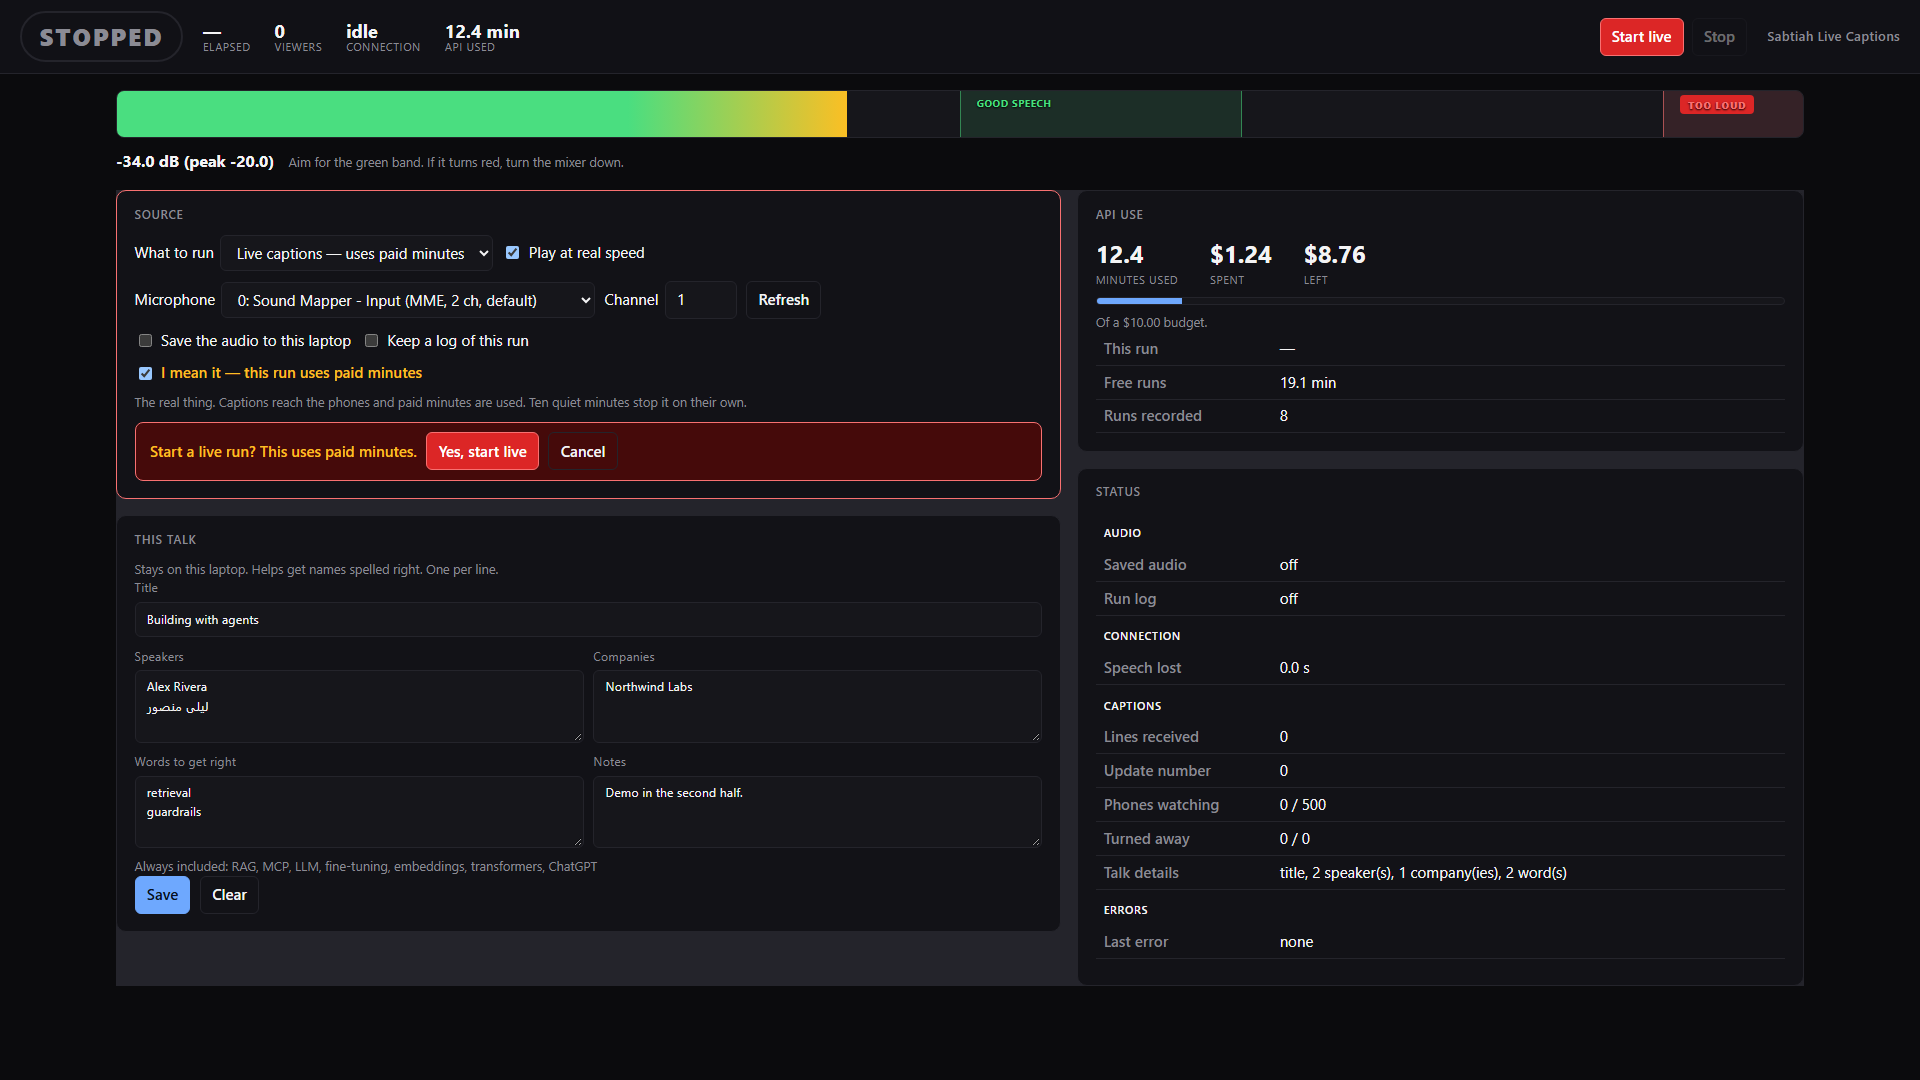
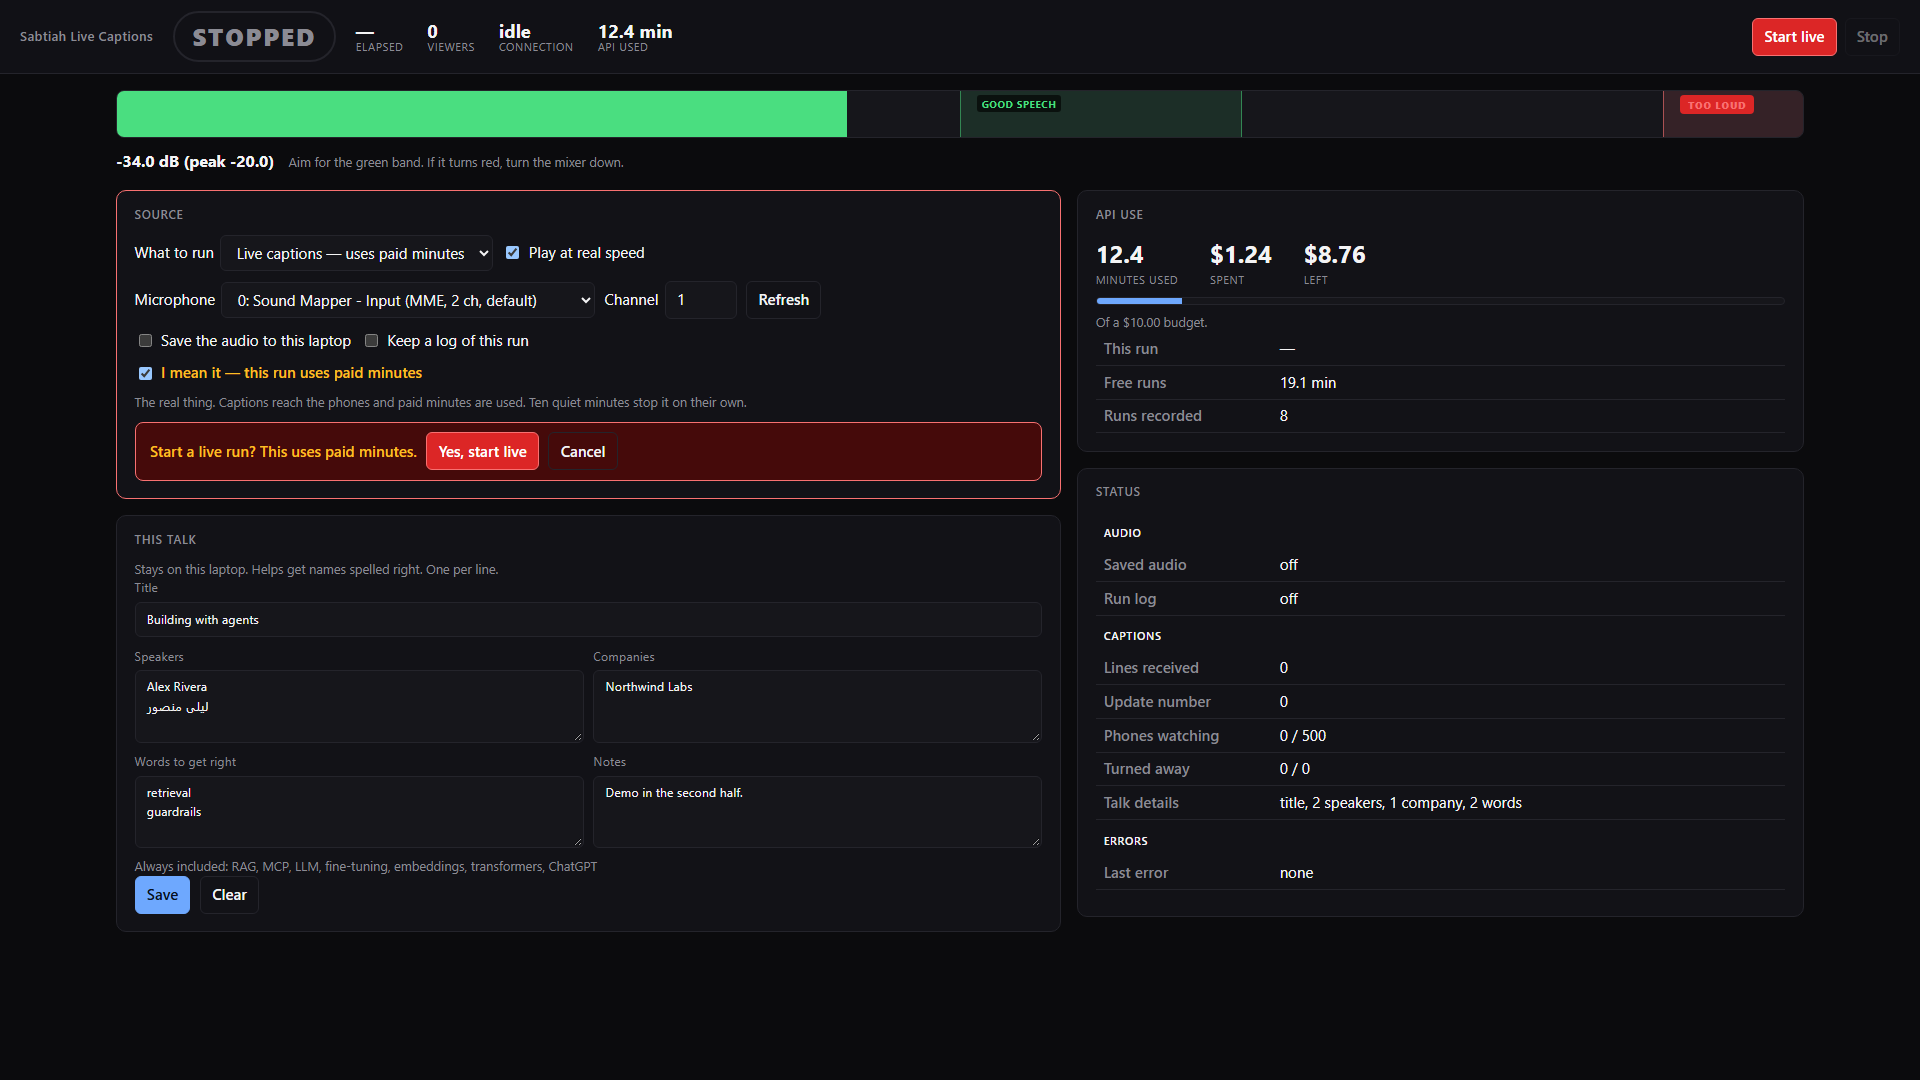
Operator page polish, from reviewing the screenshots
Layout and wording only. Every behaviour and every test is unchanged;
426 still pass.

Phone, at 390px:

- Selects and inputs are capped at the width of what contains them. A
  long device name used to push the microphone select past the edge of
  its card.
- Under 34rem every label moves above its field instead of beside it.
  Side by side, "What to run" wrapped onto three lines and left the
  select a sliver. Checkbox labels stay beside their box, because there
  the label is the sentence.

Desktop:

- The page title moved to the far left of the top bar, before the
  state pill, instead of trailing after the Stop button.
- The background is uniform again. `main { background: var(--line) }`
  is the audience page's hairline between its two stream columns, and
  it was unscoped, so it also painted the operator page's grid a shade
  lighter than the page around it. Scoped to `body:not(.admin)`, which
  covers the audience page and the big screen and leaves this one alone.
- The meter fill is green up to and through the good band, amber
  between the band and the clip zone, and red inside it, with hard
  stops aligned to the marks drawn on the bar. The gradient is stretched
  back out to the width of the whole track from JavaScript, or its
  colours would depend on the level twice over.
- The band labels sit on a dark chip. A text shadow was not enough:
  green on green was unreadable exactly when the level was in the band
  the label points at.

Content:
[…]

diff --git a/web/admin.js b/web/admin.js
@@ -62,12 +62,15 @@
     responseLog: document.getElementById('s-capture'),
     engine: document.getElementById('s-engine'),
     lag: document.getElementById('s-lag'),
-    retries: document.getElementById('s-retries'),
+    reconnects: document.getElementById('s-reconnects'),
+    rollovers: document.getElementById('s-rollovers'),
     lost: document.getElementById('s-lost'),
     silence: document.getElementById('s-silence'),
     thisRun: document.getElementById('s-this-run'),
     error: document.getElementById('s-error'),
     errorBanner: document.getElementById('error-banner'),
+    errorText: document.getElementById('error-text'),
+    errorAdvice: document.getElementById('error-advice'),
     statusHeading: document.getElementById('status-heading'),
     statusNote: document.getElementById('status-note'),
     statusCard: document.getElementById('status-card'),
@@ -75,6 +78,7 @@
     cost: document.getElementById('s-cost'),
     left: document.getElementById('s-left'),
     spendFill: document.getElementById('spend-fill'),
+    spendBar: document.getElementById('spend-bar'),
     spendNote: document.getElementById('spend-note'),
     spendCard: document.getElementById('spend-card'),
     free: document.getElementById('s-free'),
@@ -173,6 +177,12 @@
     return ok(a) && ok(b) ? a + ' / ' + b : '—';
   }
 
+  /* "1 speaker", "2 speakers". Worth the four lines: a status line that says
+   * "1 speakers" reads as a page nobody checked. */
+  function plural(count, one, many) {
+    return count + ' ' + (count === 1 ? one : (many || one + 's'));
+  }
+
   function num(value, digits, suffix) {
     if (typeof value !== 'number' || !isFinite(value)) { return '—'; }
     return value.toFixed(digits) + (suffix || '');
@@ -200,7 +210,6 @@
   function renderMeter(level) {
     if (!level) {
       els.meterFill.style.width = '0%';
-      els.meterFill.className = 'meter-fill';
       els.level.textContent = '—';
       els.clip.hidden = true;
       return;
@@ -208,7 +217,11 @@
     var db = level.db;
     var fraction = Math.max(0, Math.min(1, (db - FLOOR_DB) / -FLOOR_DB));
     els.meterFill.style.width = (fraction * 100).toFixed(1) + '%';
-    els.meterFill.className = 'meter-fill' + (level.peak >= 0.9 ? ' hot' : '');
+    /* Stretch the gradient back out to the width of the whole track, so its
+     * colour stops stay lined up with the marks painted on the bar. Green
+     * through the good band, amber past it, red inside the clip zone. */
+    els.meterFill.style.backgroundSize =
+      (100 / Math.max(fraction, 0.001)).toFixed(2) + '% 100%';
     els.level.textContent = db.toFixed(1) + ' dB  (peak ' +
       level.peak_db.toFixed(1) + ')';
     els.clip.hidden = !level.clipping;
@@ -239,10 +252,12 @@
       text(els.cost, null);
       text(els.left, null);
       els.spendFill.style.width = '0%';
+      els.spendBar.hidden = true;
       text(els.spendNote,
         'Set the per-minute rate in .env to see dollars.');
     } else {
       text(els.cost, '$' + used.toFixed(2));
+      els.spendBar.hidden = false;
       if (budget) {
         var left = budget - used;
         text(els.left, '$' + left.toFixed(2));
@@ -264,10 +279,19 @@
   }
 
   /* Rows whose value is only an em dash are noise while nothing is running.
-   * Hidden rather than removed so they come straight back when a run starts. */
-  function tidyRows(running) {
-    var rows = els.statusCard.querySelectorAll('tr[data-row]');
+   * Hidden rather than removed so they come straight back when a run starts.
+   *
+   * The Connection group goes as a block when there is no engine at all: a
+   * replay transcribes nothing, so "caption delay" and "reconnects" are not
+   * blank, they are meaningless. */
+  function tidyRows(running, hasEngine) {
+    var rows = els.statusCard.querySelectorAll('tr[data-row], tr.group');
     Array.prototype.forEach.call(rows, function (row) {
+      if (row.getAttribute('data-group') === 'connection' && !hasEngine) {
+        row.hidden = true;
+        return;
+      }
+      if (!row.hasAttribute('data-row')) { row.hidden = false; return; }
       var cell = row.cells[1];
       var empty = !cell || cell.textContent === '—';
       row.hidden = empty && !running;
@@ -325,16 +349,19 @@
 
       /* Counts only. The values are never in this payload. */
       var d = status.details;
-      text(els.details, d ? (
-        (d.title ? 'title, ' : 'no title, ') + d.speakers + ' speaker(s), '
-        + d.companies + ' company(ies), ' + d.terms + ' word(s)'
-      ) : null);
+      text(els.details, d ? [
+        d.title ? 'title' : 'no title',
+        plural(d.speakers, 'speaker'),
+        plural(d.companies, 'company', 'companies'),
+        plural(d.terms, 'word')
+      ].join(', ') : null);
 
       text(els.engine, status.engine_state);
       els.engine.className = status.engine_state === 'reconnecting'
         ? 'error' : '';
       text(els.lag, num(status.lag_seconds, 2, ' s'));
-      text(els.retries, pair(status.reconnects, status.rollovers));
+      text(els.reconnects, status.reconnects);
+      text(els.rollovers, status.rollovers);
       text(els.lost, num(status.dropped_seconds, 1, ' s'));
       els.lost.className = status.dropped_seconds ? 'error' : '';
       text(els.silence, num(status.silent_seconds, 0, ' s'));
@@ -342,7 +369,10 @@
         typeof status.streamed_seconds === 'number'
           ? status.streamed_seconds / 60 : undefined, 2, ' min'));
 
-      tidyRows(running);
+      /* An engine is involved when one is connected now, or when the run
+       * that just finished had one. A replay never has one. */
+      tidyRows(running, !!(status.engine_state
+        || status.reconnects !== undefined || status.dropped_seconds));
     });
 
     section('error', function () {
@@ -351,8 +381,14 @@
        * was "this page has a bug". Page problems go to their own banner. */
       text(els.error, status.error, 'none');
       els.error.className = status.error ? 'error' : '';
-      els.errorBanner.textContent = status.error || '';
+      text(els.errorText, status.error, '');
       els.errorBanner.hidden = !status.error;
+      /* One plain line for the error an operator can actually act on. The
+       * key is the only thing on this list they can fix from their seat. */
+      var auth = /unauthenticated|permission_denied|invalid api key/i
+        .test(status.error || '');
+      text(els.errorAdvice, auth ? 'The API key in .env was rejected.' : '', '');
+      els.errorAdvice.hidden = !auth;
       els.statusCard.className = status.error ? 'card danger' : 'card';
     });
 
@@ -472,7 +508,10 @@
     if (!els.applyBar) { return; }
     els.applyBar.hidden = !pending;
     els.detailsCard.className = pending ? 'card attention' : 'card';
-    if (pending) { detailsState('Saved — not in use yet.', 'pending'); }
+    /* The amber bar says "saved, not in use yet" in full. Saying it again
+     * beside the Save button only made the page look like it was repeating
+     * itself, so the small line is cleared instead. */
+    if (pending) { detailsState('', null); }
   }
 
   function sendDetails(details, note) {

diff --git a/web/style.css b/web/style.css
@@ -124,7 +124,13 @@ h1 {
 
 /* -- streams ------------------------------------------------------------ */
 
-main {
+/* Everything except the operator page - so the audience page and the big
+   screen, both of which use `main` for their stream columns. The background
+   here is the hairline between the two columns in "Both": a 1px grid gap
+   with the line colour showing through. Unscoped, it also painted the
+   operator page's grid, which is why the area around those cards looked a
+   shade lighter than the page itself. */
+body:not(.admin) main {
   flex: 1;
   min-height: 0;
   display: grid;
@@ -402,6 +408,9 @@ body.admin textarea {
   border-radius: 6px;
   padding: 0.4rem 0.7rem;
   min-height: 2.2rem;
+  /* A long device name used to push the select past the edge of its card on
+     a phone. Nothing here may be wider than what contains it. */
+  max-width: 100%;
 }
 
 body.admin input[type="number"] { width: 4.5rem; }
@@ -470,6 +479,16 @@ body.admin .banner {
 body.admin .banner.page { color: #f87171; border: 1px solid #f87171; }
 body.admin .banner.engine { background: #7f1d1d; color: #fff; }
 
+/* The advice sits on its own line under the error, not trailing off the end
+   of it: it is a separate thought, and the one an operator can act on. */
+body.admin #error-advice {
+  display: block;
+  font-weight: 400;
+  margin-top: 0.15rem;
+}
+
+body.admin #error-advice[hidden] { display: none !important; }
+
 /* The "saved but not applied" state during a live run. It has to be
    impossible to walk past. */
 body.admin .applybar {
@@ -514,7 +533,19 @@ body.admin .meter {
 body.admin .meter-fill {
   height: 100%;
   width: 0;
-  background: linear-gradient(90deg, #4ade80 0%, #4ade80 70%, #fbbf24 100%);
+  /* Hard stops aligned to the marks drawn on the bar: green all the way
+     through the good band (which ends at 66.7%), amber in the gap between
+     the band and the clip zone, red once inside it (91.7%). The colour of
+     the bar's end is then the answer on its own, without reading a number. */
+  background: linear-gradient(90deg,
+    #4ade80 0%, #4ade80 66.7%,
+    #fbbf24 66.7%, #fbbf24 91.7%,
+    #f87171 91.7%, #f87171 100%);
+  /* `background-size` is set from JavaScript to the inverse of the fill
+     fraction, so the gradient always spans the whole track rather than being
+     squeezed into whatever width the fill currently has. Without that, the
+     colour at the end of the bar would depend on the level twice over. */
+  background-repeat: no-repeat;
   transition: width 120ms linear;
 }
 
@@ -551,7 +582,12 @@ body.admin .meter-label {
   position: absolute;
   z-index: 3;
   font-weight: 700;
-  text-shadow: 0 1px 2px #000;
+  /* A dark chip, not just a text shadow: these labels sit wherever the fill
+     happens to reach, and green-on-green was unreadable exactly when the
+     level was in the band the label is pointing at. */
+  background: rgba(0, 0, 0, 0.62);
+  padding: 0.05rem 0.3rem;
+  border-radius: 3px;
   top: 0.25rem;
   font-size: 0.62rem;
   letter-spacing: 0.06em;
@@ -563,11 +599,43 @@ body.admin .meter-label {
 body.admin .meter-label.good { left: 51%; color: #4ade80; }
 body.admin .meter-label.clip { left: 92.7%; color: #f87171; }
 
-/* The words do not fit beside each other on a phone; the coloured bands
-   still say where to aim. */
+/* Phone width. Two things change: the meter labels drop out (the coloured
+   bands still say where to aim), and every label moves above its field
+   instead of beside it - side by side, "What to run" wrapped onto three
+   lines and left the select a sliver. */
 @media (max-width: 34rem) {
   body.admin .meter-label { display: none; }
   body.admin .meter { height: 2.2rem; }
+
+  body.admin .row { gap: 0.8rem; }
+
+  body.admin .row > label {
+    display: flex;
+    flex-direction: column;
+    align-items: stretch;
+    gap: 0.25rem;
+    flex: 1 1 100%;
+    color: var(--dim);
+    font-size: 0.78rem;
+  }
+
+  /* ...except a checkbox, where the label *is* the sentence and belongs
+     beside the box. */
+  body.admin .row > label:has(input[type="checkbox"]) {
+    flex-direction: row;
+    align-items: center;
+    color: inherit;
+    font-size: inherit;
+  }
+
+  body.admin .row > label > select,
+  body.admin .row > label > input[type="text"],
+  body.admin .row > label > input[type="number"] {
+    width: 100%;
+  }
+
+  body.admin .topbar { gap: 0.75rem 1rem; }
+  body.admin .topstats { gap: 1rem; }
 }
 
 body.admin .meterline {

diff --git a/web/admin.html b/web/admin.html
@@ -18,6 +18,7 @@
 <body class="admin" data-page="admin">
 
   <header class="topbar">
+    <h1>Sabtiah Live Captions</h1>
     <div class="pill stopped" id="state-pill">STOPPED</div>
     <div class="topstats">
       <div class="topstat"><b id="t-elapsed">—</b><span>elapsed</span></div>
@@ -29,7 +30,6 @@
       <button type="button" id="start" class="primary">Start</button>
       <button type="button" id="stop" class="ghost">Stop</button>
     </div>
-    <h1>Sabtiah Live Captions</h1>
   </header>
 
   <div class="wrap">
@@ -38,8 +38,13 @@
          admin.js. Kept apart from the engine's error so a page fault is never
          read as a transcription failure. -->
     <p class="banner page" id="page-problem" hidden></p>
-    <!-- The engine's error, in red at the top where it cannot be missed. -->
-    <p class="banner engine" id="error-banner" hidden></p>
+    <!-- The engine's error, in red at the top where it cannot be missed.
+         The second line is advice, shown only when there is something
+         specific to say. -->
+    <div class="banner engine" id="error-banner" hidden>
+      <b id="error-text"></b>
+      <span id="error-advice" hidden></span>
+    </div>
 
     <div class="meterwrap">
       <!-- aria-hidden: the numbers beside the bar say the same thing, and a
@@ -181,7 +186,7 @@
             <div class="spendfig"><b id="s-cost">—</b><span>spent</span></div>
             <div class="spendfig"><b id="s-left">—</b><span>left</span></div>
           </div>
-          <div class="spendbar"><div id="spend-fill"></div></div>
+          <div class="spendbar" id="spend-bar"><div id="spend-fill"></div></div>
           <p class="note" id="spend-note"></p>
           <table>
             <tbody>
@@ -204,12 +209,13 @@
               <tr data-row><th>Saved audio</th><td id="s-recording">—</td></tr>
               <tr data-row><th>Run log</th><td id="s-capture">—</td></tr>
 
-              <tr class="group"><th colspan="2">Connection</th></tr>
-              <tr data-row><th>State</th><td id="s-engine">—</td></tr>
-              <tr data-row><th>Caption delay</th><td id="s-lag">—</td></tr>
-              <tr data-row><th>Drop-outs</th><td id="s-retries">—</td></tr>
-              <tr data-row><th>Speech lost</th><td id="s-lost">—</td></tr>
-              <tr data-row><th>Quiet for</th><td id="s-silence">—</td></tr>
+              <tr class="group" data-group="connection"><th colspan="2">Connection</th></tr>
+              <tr data-row data-group="connection"><th>State</th><td id="s-engine">—</td></tr>
+              <tr data-row data-group="connection"><th>Caption delay</th><td id="s-lag">—</td></tr>
+              <tr data-row data-group="connection"><th>Reconnects</th><td id="s-reconnects">—</td></tr>
+              <tr data-row data-group="connection"><th>Rollovers</th><td id="s-rollovers">—</td></tr>
+              <tr data-row data-group="connection"><th>Speech lost</th><td id="s-lost">—</td></tr>
+              <tr data-row data-group="connection"><th>Quiet for</th><td id="s-silence">—</td></tr>
 
               <tr class="group"><th colspan="2">Captions</th></tr>
               <tr data-row><th>Lines received</th><td id="s-responses">—</td></tr>
